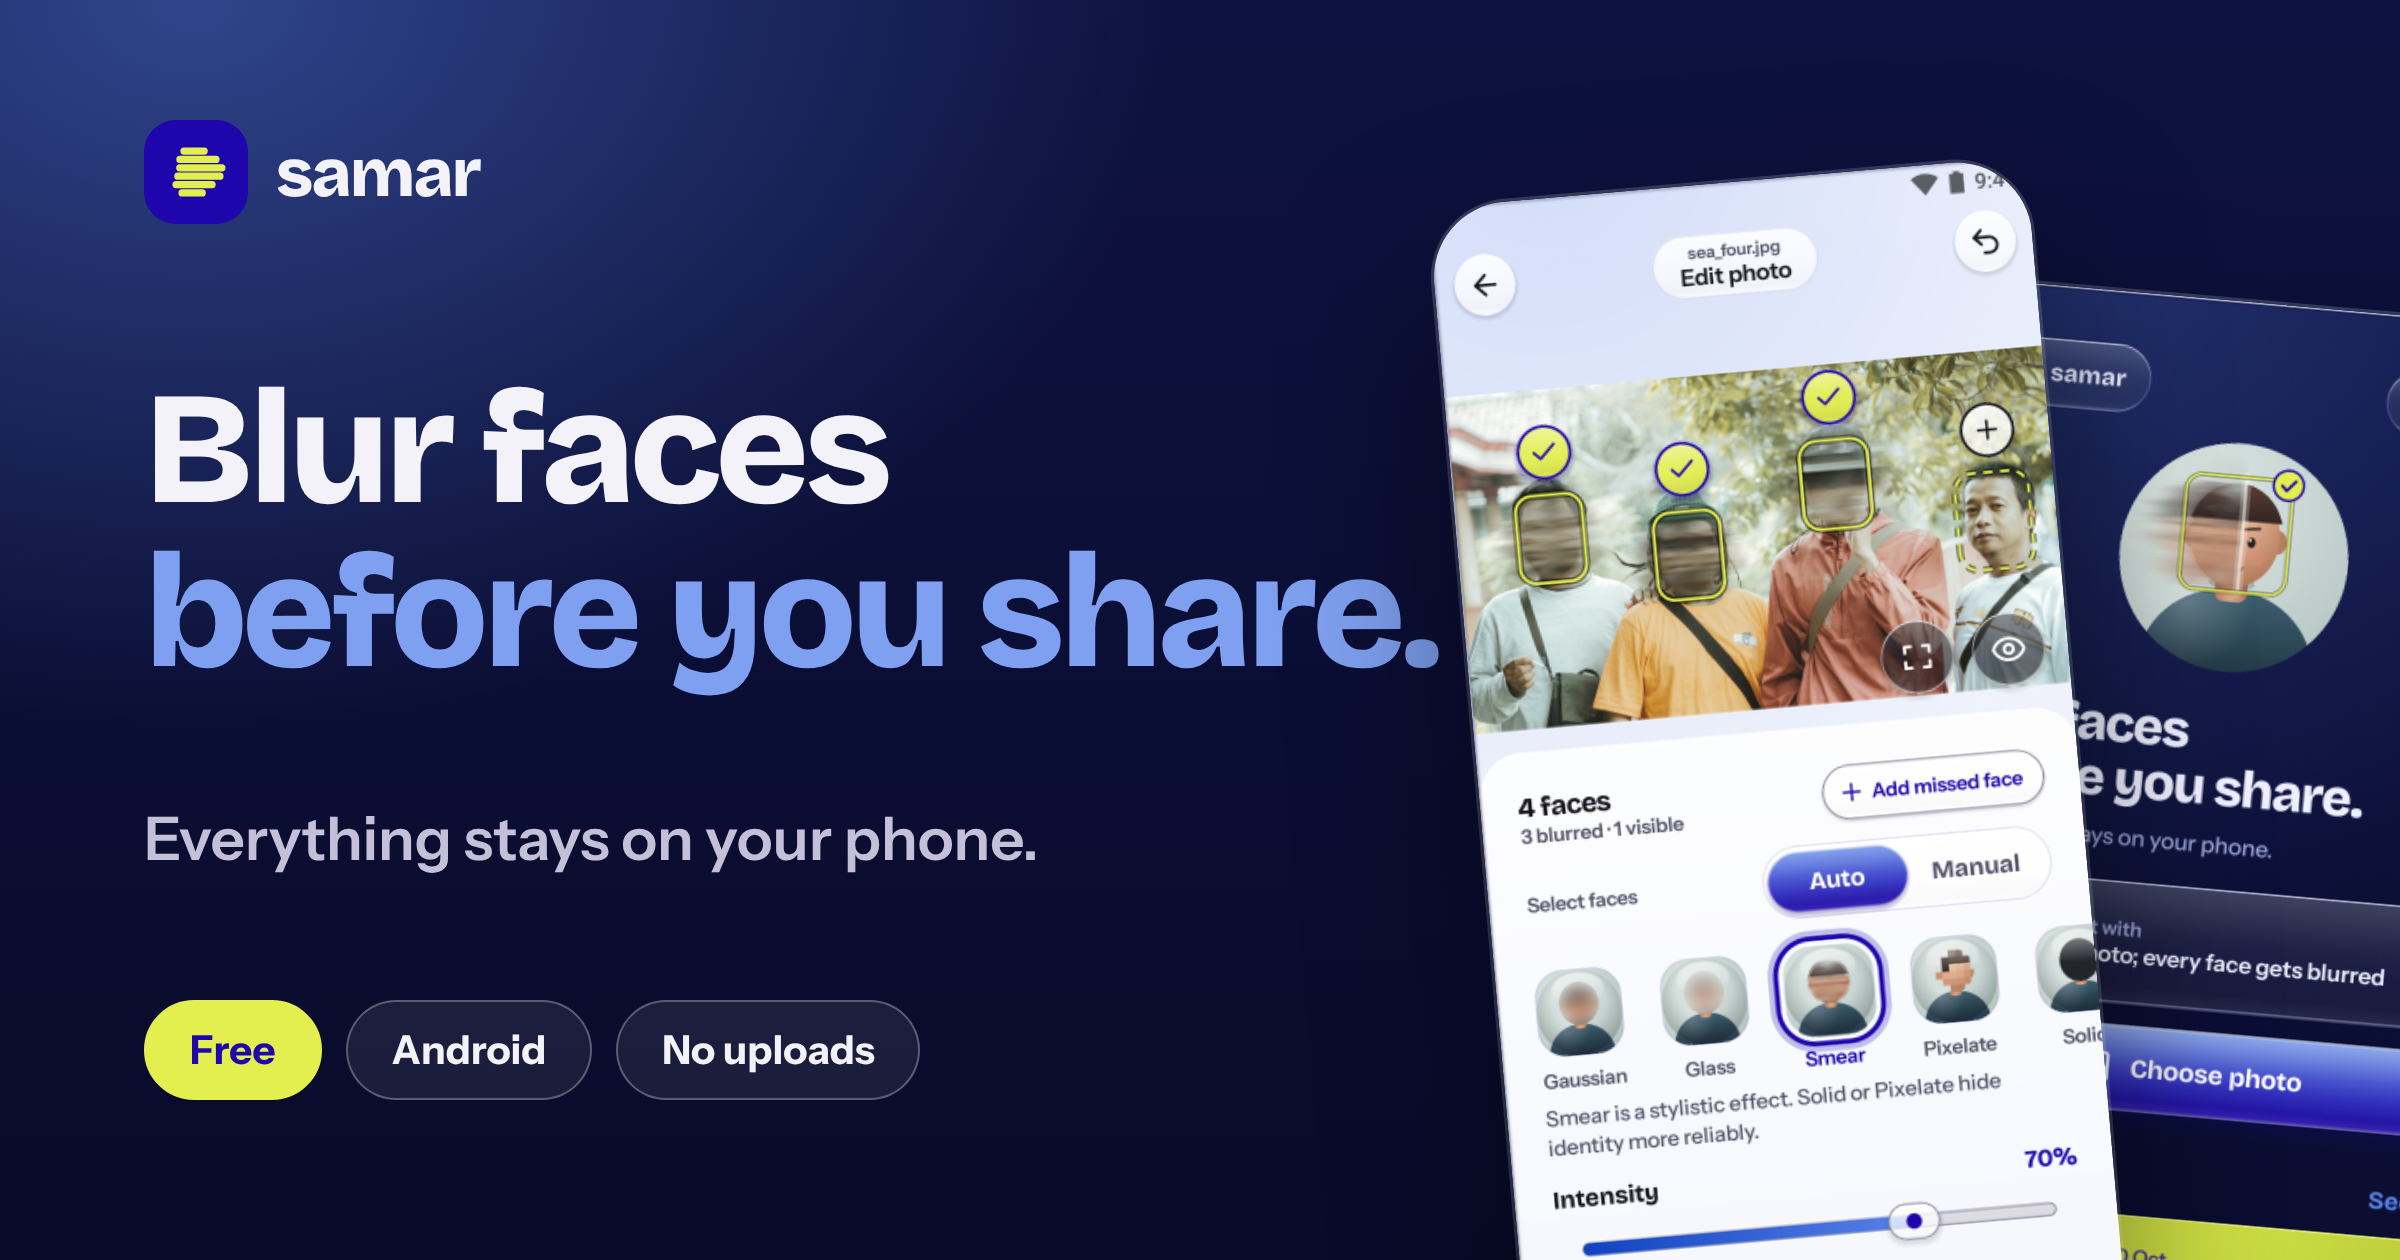
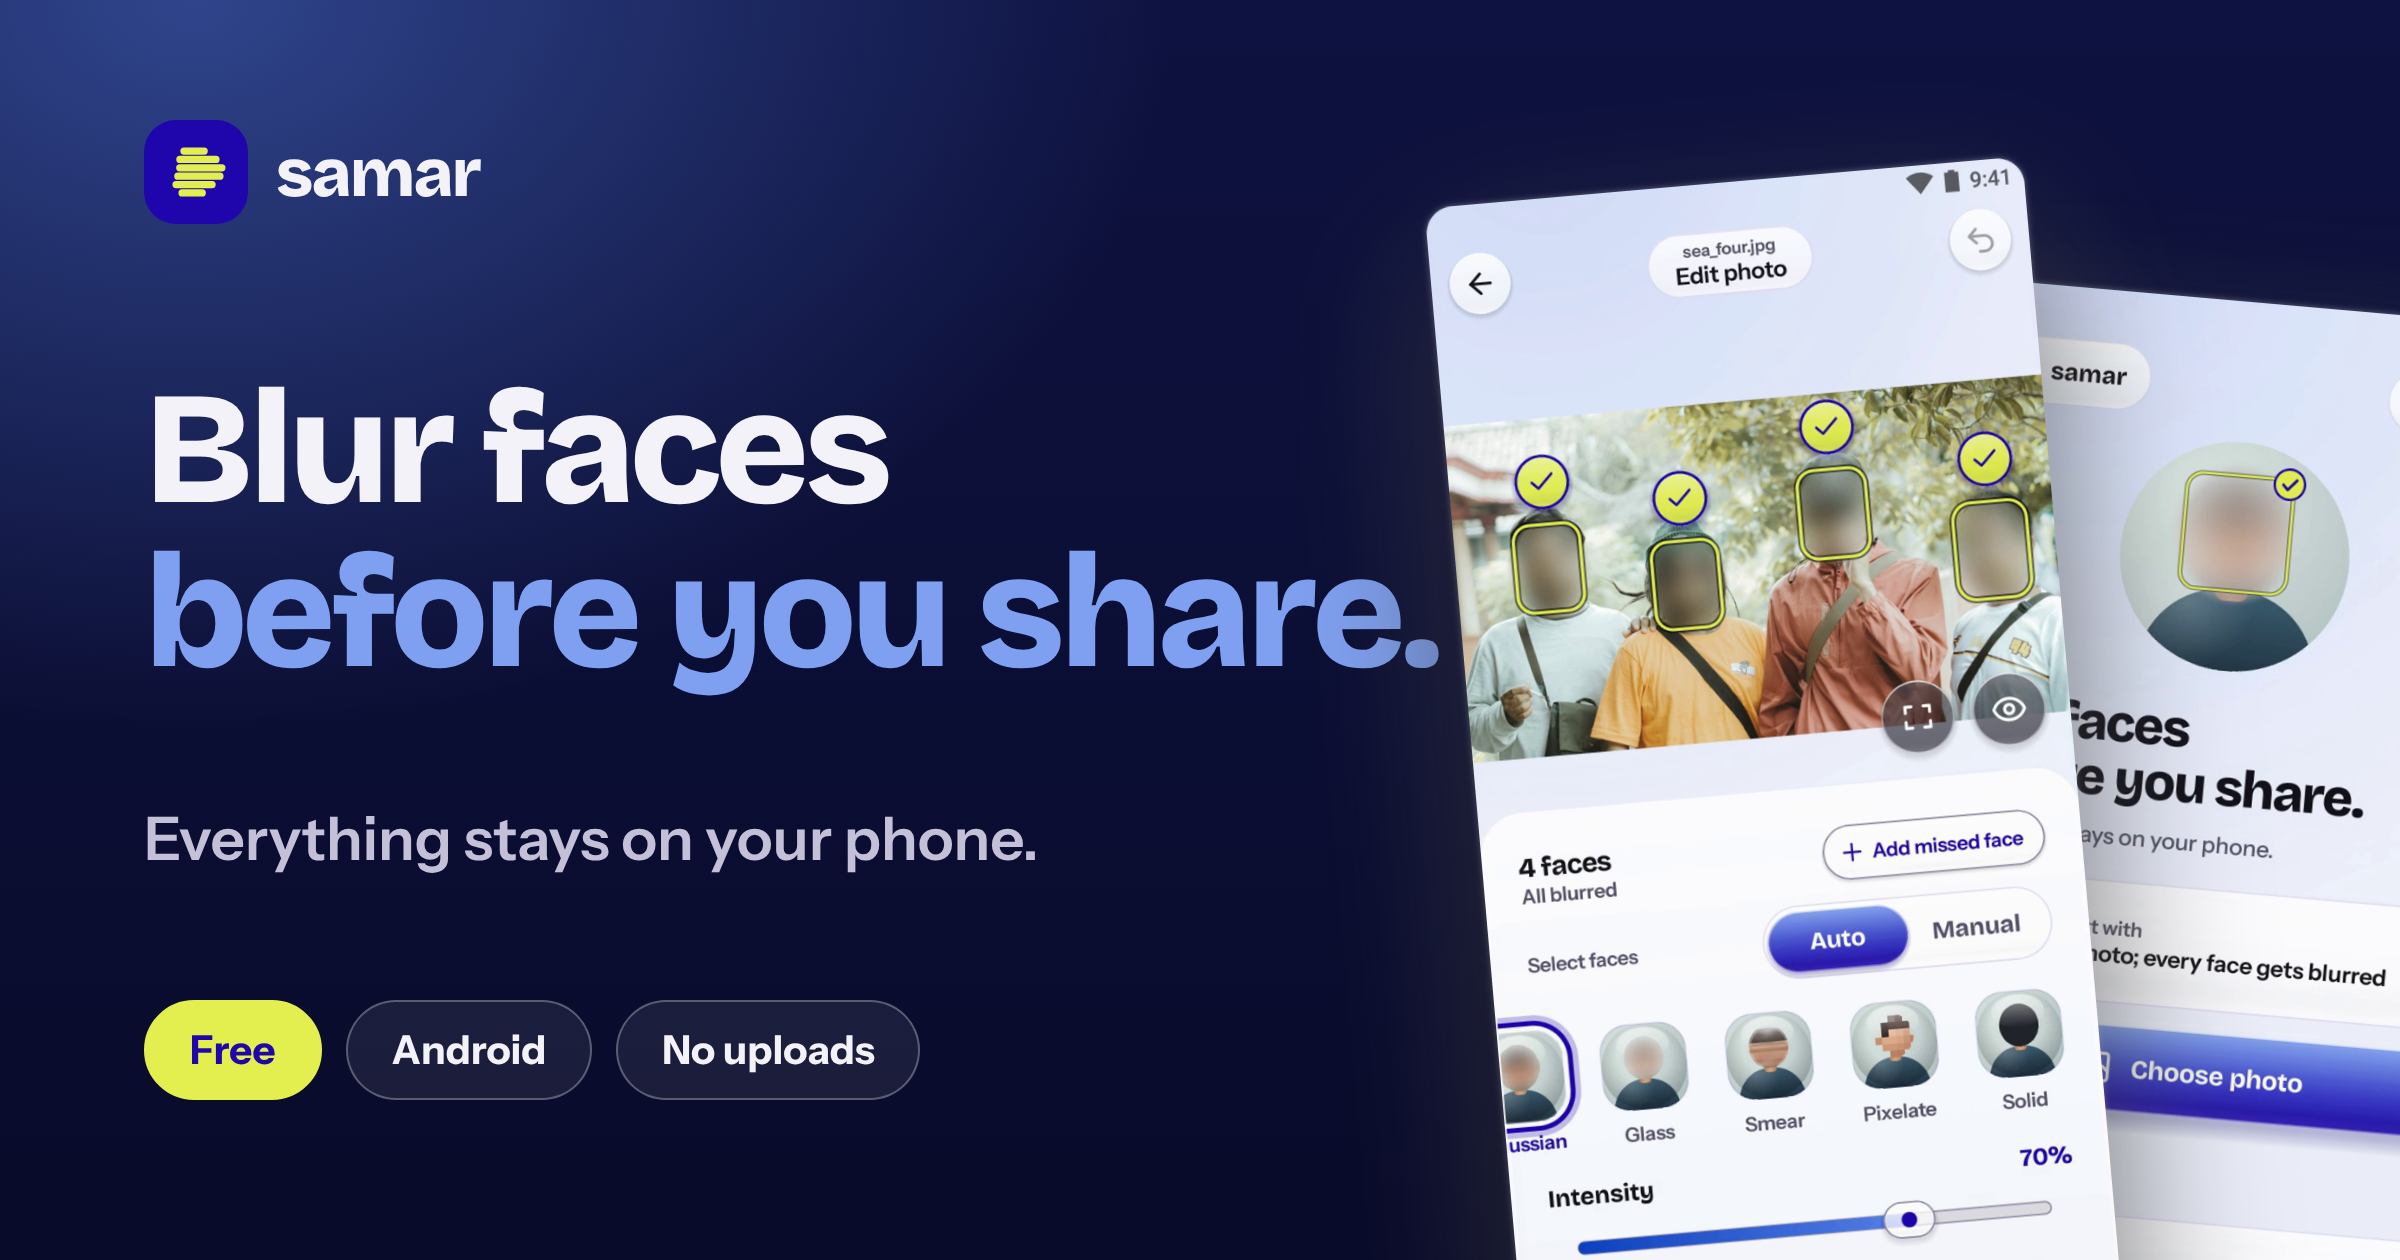
Site: sharper phone screenshots from the demo video, refreshed cover images
Claude-Session: https://claude.ai/code/session_017U1nrkiMzH9exEQDhictgA

diff --git a/docs/index.html b/docs/index.html
@@ -83,7 +83,7 @@ h1 span{color:var(--accent)}
 .cta{display:flex;flex-wrap:wrap;gap:12px;align-items:center}
 .fine{font-size:14px;color:var(--muted);margin-top:16px}
 .phones{position:relative;height:600px}
-.phones img{position:absolute;height:auto;width:min(40%,240px);border-radius:30px;box-shadow:0 30px 60px rgba(8,6,60,.35),0 0 0 1px var(--edge)}
+.phones img{position:absolute;height:auto;width:min(40%,240px);filter:drop-shadow(0 24px 30px rgba(8,6,60,.45)) drop-shadow(0 0 1px rgba(255,255,255,.35))}
 .phones .p1{left:0;top:60px;transform:rotate(-4deg)}
 .phones .p2{left:30%;top:0;z-index:2}
 .phones .p3{left:60%;top:80px;transform:rotate(4deg)}
@@ -167,10 +167,10 @@ footer a{padding:10px 0;display:inline-block}
         </div>
         <p class="fine"><i>samar</i> (Indonesian): faint, indistinct, hard to make out.</p>
       </div>
-      <div class="phones" role="img" aria-label="Three samar screens: Home, the editor with faces blurred, and Export in dark mode">
-        <img class="p1" src="assets/screens/home.png" alt="" width="360" height="738">
-        <img class="p2" src="assets/screens/editor.png" alt="" width="360" height="738">
-        <img class="p3" src="assets/screens/home-dark.png" alt="" width="361" height="738">
+      <div class="phones" role="img" aria-label="Three samar screens: Home, the editor with faces blurred, and Export">
+        <img class="p1" src="assets/screens/home.png" alt="" width="692" height="1500">
+        <img class="p2" src="assets/screens/editor.png" alt="" width="692" height="1500">
+        <img class="p3" src="assets/screens/export.png" alt="" width="692" height="1500">
       </div>
     </div>
 

diff --git a/docs/social/square.html b/docs/social/square.html
@@ -11,7 +11,7 @@ body{width:1080px;height:1080px;overflow:hidden;position:relative;color:#F3F2F8;
 h1{position:absolute;left:72px;top:170px;font:800 112px/0.98 B;letter-spacing:-.035em;width:900px}
 h1 span{color:#7FA0F0}
 p{position:absolute;left:72px;top:400px;font:600 34px I;color:#C3C0D8}
-.ph{position:absolute;width:340px;border-radius:42px;box-shadow:0 40px 80px rgba(0,0,0,.5),0 0 0 1.5px rgba(255,255,255,.18)}
+.ph{position:absolute;width:340px;filter:drop-shadow(0 30px 40px rgba(0,0,0,.55)) drop-shadow(0 0 1.5px rgba(255,255,255,.4))}
 .a{left:200px;top:520px;transform:rotate(-4deg);z-index:2}
 .b{left:540px;top:560px;transform:rotate(4deg)}
 .tag{position:absolute;right:72px;top:70px;font:700 22px I;padding:12px 22px;border-radius:99px;background:#E3EF4F;color:#1F06AC}
@@ -20,4 +20,4 @@ p{position:absolute;left:72px;top:400px;font:600 34px I;color:#C3C0D8}
 <h1>Blur faces <span>before you share.</span></h1>
 <p>Everything stays on your phone.</p>
 <img class="ph a" src="../assets/screens/editor.png">
-<img class="ph b" src="../assets/screens/home-dark.png">
+<img class="ph b" src="../assets/screens/home.png">

diff --git a/docs/social/cover.html b/docs/social/cover.html
@@ -15,7 +15,7 @@ p{position:absolute;left:72px;top:400px;font:600 30px/1.35 I;color:#C3C0D8;width
 .pill{position:absolute;left:72px;top:500px;display:flex;gap:12px}
 .pill b{font:700 20px I;padding:12px 22px;border-radius:99px;border:1.5px solid rgba(255,255,255,.28);background:rgba(255,255,255,.07)}
 .pill b.n{background:#E3EF4F;color:#1F06AC;border-color:#E3EF4F}
-.ph{position:absolute;width:300px;border-radius:38px;box-shadow:0 40px 80px rgba(0,0,0,.5),0 0 0 1.5px rgba(255,255,255,.18)}
+.ph{position:absolute;width:300px;filter:drop-shadow(0 30px 40px rgba(0,0,0,.55)) drop-shadow(0 0 1.5px rgba(255,255,255,.4))}
 .a{left:740px;top:90px;transform:rotate(-5deg);z-index:2}
 .b{left:950px;top:150px;transform:rotate(5deg)}
 </style>
@@ -24,4 +24,4 @@ p{position:absolute;left:72px;top:400px;font:600 30px/1.35 I;color:#C3C0D8;width
 <p>Everything stays on your phone.</p>
 <div class="pill"><b class="n">Free</b><b>Android</b><b>No uploads</b></div>
 <img class="ph a" src="../assets/screens/editor.png">
-<img class="ph b" src="../assets/screens/home-dark.png">
+<img class="ph b" src="../assets/screens/home.png">

diff --git a/.claude/CLAUDE.md b/.claude/CLAUDE.md
@@ -82,6 +82,6 @@ every user and cannot be undone.
   `main` `/docs` at https://hystericmoon.github.io/samar/). Pages must be enabled by the owner
   (Settings, Pages, Deploy from a branch, `main`, `/docs`); cloud sessions can't change repo settings.
 - It deliberately avoids hard-coding the version; it links to `releases/latest`. Update it when
-  features users notice change. Phone screenshots are cropped from `docs/readme/screens.png`.
+  features users notice change. Phone screenshots (`docs/assets/screens/`, 692x1500 with rounded alpha corners) are native-resolution frames cut from `docs/video/samar-demo.mp4` (screen at x194..885, y300..1799 of the 1080x1920 frame). Redo them when the UI changes.
 - Launch post copy and cover images (rebuild with Playwright from the `.html` files) are in `docs/social/`.
 

diff --git a/docs/social/posts.md b/docs/social/posts.md
@@ -22,7 +22,8 @@ Try it, and tell me what you'd change: https://hystericmoon.github.io/samar/
 
 #Android #Privacy #ProductDesign #OpenSource #JetpackCompose
 
-(Attach `cover.png`. Put the link in the first comment too if you want better reach.)
+(Attach either `docs/video/samar-demo.mp4` (native upload, 1080x1920, 59 s) or `cover.png`.
+With the video, many people prefer the link in the first comment instead of the post body. Videos autoplay muted: the on-screen step titles carry the message without sound.)
 
 ## X / Threads / Bluesky (short)
 
